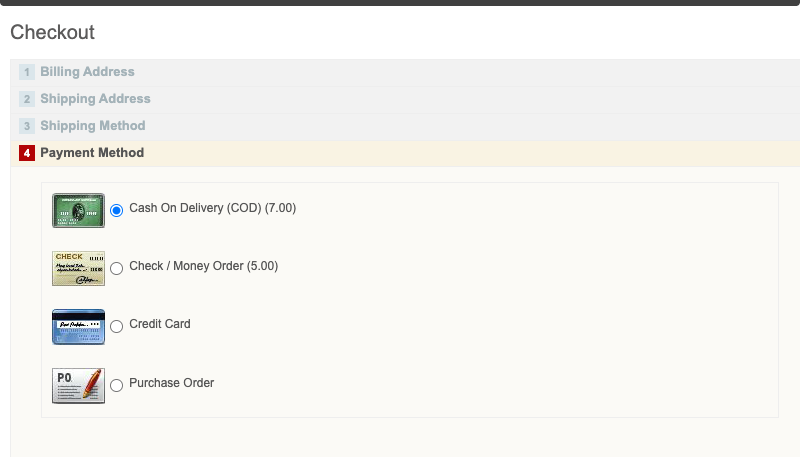
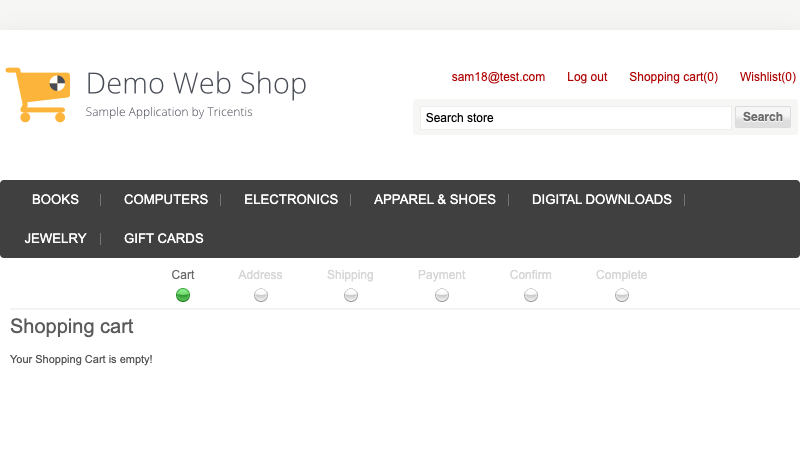
Updated JenkinsFile

diff --git a/reports/Index.html b/reports/Index.html
@@ -35,7 +35,7 @@
 <a href="#"><span class="badge badge-primary"></span></a>
 </li>
 <li class="m-r-10">
-<a href="#"><span class="badge badge-primary">Aug 18, 2026 04:15:12 PM</span></a>
+<a href="#"><span class="badge badge-primary">Oct 31, 2026 04:00:02 PM</span></a>
 </li>
 </ul>
 </div>
@@ -86,13 +86,41 @@
 </div>    <div class="test-list-wrapper scrollable">
       <ul class="test-list-item">
         <li class="test-item"  status="pass" test-id="1"
+          author="Santhosh"
+          tag=""
+          device="">
+          <div class="test-detail">
+            <p class="name">Electronics</p>
+            <p class="text-sm">
+              <span>4:00:49 PM</span> / <span>00:00:00:000</span>
+              <span class="badge pass-bg log float-right">Pass</span>
+            </p>
+          </div>
+          <div class="test-contents d-none">
+<div class="detail-head">
+<div class="p-v-10">
+<div class="info">
+<h5 class="test-status text-pass">Electronics</h5>
+<span class='badge badge-success'>10.31.2026 4:00:49 PM</span>
+<span class='badge badge-danger'>10.31.2026 4:00:49 PM</span>
+<span class='badge badge-default'>00:00:00:000</span>
+&middot; <span class='uri-anchor badge badge-default'>#test-id=1</span>
+<span title='Skip to the next failed step' class='badge badge-danger pointer float-right ne ml-1'><i class="fa fa-fast-forward"></i></span>
+<span title='Collapse all nodes' class='badge badge-default pointer float-right ct ml-1'><i class="fa fa-compress"></i></span>
+<span title='Expand all nodes' class='badge badge-default pointer float-right et'><i class="fa fa-expand"></i></span>
+</div>
+<div class="m-t-15"><span class="badge badge-pill badge-default">Santhosh</span></div>
+</div>
+</div>          </div>
+        </li>
+        <li class="test-item"  status="pass" test-id="2"
           author=""
           tag=""
           device="">
           <div class="test-detail">
             <p class="name">TC_02 - Verify Page Title After Login</p>
             <p class="text-sm">
-              <span>4:15:20 PM</span> / <span>00:00:00:011</span>
+              <span>4:00:49 PM</span> / <span>00:00:00:009</span>
               <span class="badge pass-bg log float-right">Pass</span>
             </p>
           </div>
@@ -101,10 +129,10 @@
 <div class="p-v-10">
 <div class="info">
 <h5 class="test-status text-pass">TC_02 - Verify Page Title After Login</h5>
-<span class='badge badge-success'>08.18.2026 4:15:20 PM</span>
-<span class='badge badge-danger'>08.18.2026 4:15:20 PM</span>
-<span class='badge badge-default'>00:00:00:011</span>
-&middot; <span class='uri-anchor badge badge-default'>#test-id=1</span>
+<span class='badge badge-success'>10.31.2026 4:00:49 PM</span>
+<span class='badge badge-danger'>10.31.2026 4:00:49 PM</span>
+<span class='badge badge-default'>00:00:00:009</span>
+&middot; <span class='uri-anchor badge badge-default'>#test-id=2</span>
 <span title='Skip to the next failed step' class='badge badge-danger pointer float-right ne ml-1'><i class="fa fa-fast-forward"></i></span>
 <span title='Collapse all nodes' class='badge badge-default pointer float-right ct ml-1'><i class="fa fa-compress"></i></span>
 <span title='Expand all nodes' class='badge badge-default pointer float-right et'><i class="fa fa-expand"></i></span>
@@ -116,7 +144,7 @@
   <tbody>
       <tr class="event-row">
         <td><span class="badge log pass-bg">Pass</span></td>
-        <td>4:15:20 PM</td>
+        <td>4:00:49 PM</td>
         <td>
           Page title after login: Demo Web Shop
         </td>
@@ -126,34 +154,6 @@
 </div>
           </div>
         </li>
-        <li class="test-item"  status="pass" test-id="2"
-          author="Santhosh"
-          tag=""
-          device="">
-          <div class="test-detail">
-            <p class="name">Electronics</p>
-            <p class="text-sm">
-              <span>4:15:20 PM</span> / <span>00:00:00:000</span>
-              <span class="badge pass-bg log float-right">Pass</span>
-            </p>
-          </div>
-          <div class="test-contents d-none">
-<div class="detail-head">
-<div class="p-v-10">
-<div class="info">
-<h5 class="test-status text-pass">Electronics</h5>
-<span class='badge badge-success'>08.18.2026 4:15:20 PM</span>
-<span class='badge badge-danger'>08.18.2026 4:15:20 PM</span>
-<span class='badge badge-default'>00:00:00:000</span>
-&middot; <span class='uri-anchor badge badge-default'>#test-id=2</span>
-<span title='Skip to the next failed step' class='badge badge-danger pointer float-right ne ml-1'><i class="fa fa-fast-forward"></i></span>
-<span title='Collapse all nodes' class='badge badge-default pointer float-right ct ml-1'><i class="fa fa-compress"></i></span>
-<span title='Expand all nodes' class='badge badge-default pointer float-right et'><i class="fa fa-expand"></i></span>
-</div>
-<div class="m-t-15"><span class="badge badge-pill badge-default">Santhosh</span></div>
-</div>
-</div>          </div>
-        </li>
         <li class="test-item"  status="pass" test-id="3"
           author=""
           tag=""
@@ -161,7 +161,7 @@
           <div class="test-detail">
             <p class="name">TC_01 - Verify Successful Login</p>
             <p class="text-sm">
-              <span>4:15:23 PM</span> / <span>00:00:00:019</span>
+              <span>4:00:53 PM</span> / <span>00:00:00:024</span>
               <span class="badge pass-bg log float-right">Pass</span>
             </p>
           </div>
@@ -170,9 +170,9 @@
 <div class="p-v-10">
 <div class="info">
 <h5 class="test-status text-pass">TC_01 - Verify Successful Login</h5>
-<span class='badge badge-success'>08.18.2026 4:15:23 PM</span>
-<span class='badge badge-danger'>08.18.2026 4:15:23 PM</span>
-<span class='badge badge-default'>00:00:00:019</span>
+<span class='badge badge-success'>10.31.2026 4:00:53 PM</span>
+<span class='badge badge-danger'>10.31.2026 4:00:53 PM</span>
+<span class='badge badge-default'>00:00:00:024</span>
 &middot; <span class='uri-anchor badge badge-default'>#test-id=3</span>
 <span title='Skip to the next failed step' class='badge badge-danger pointer float-right ne ml-1'><i class="fa fa-fast-forward"></i></span>
 <span title='Collapse all nodes' class='badge badge-default pointer float-right ct ml-1'><i class="fa fa-compress"></i></span>
@@ -185,7 +185,7 @@
   <tbody>
       <tr class="event-row">
         <td><span class="badge log pass-bg">Pass</span></td>
-        <td>4:15:23 PM</td>
+        <td>4:00:53 PM</td>
         <td>
           User logged in successfully — 'Log out' link found on page.
         </td>
@@ -202,7 +202,7 @@
           <div class="test-detail">
             <p class="name">TC_03 - Verify URL After Login</p>
             <p class="text-sm">
-              <span>4:15:27 PM</span> / <span>00:00:00:008</span>
+              <span>4:00:56 PM</span> / <span>00:00:00:009</span>
               <span class="badge pass-bg log float-right">Pass</span>
             </p>
           </div>
@@ -211,9 +211,9 @@
 <div class="p-v-10">
 <div class="info">
 <h5 class="test-status text-pass">TC_03 - Verify URL After Login</h5>
-<span class='badge badge-success'>08.18.2026 4:15:27 PM</span>
-<span class='badge badge-danger'>08.18.2026 4:15:27 PM</span>
-<span class='badge badge-default'>00:00:00:008</span>
+<span class='badge badge-success'>10.31.2026 4:00:56 PM</span>
+<span class='badge badge-danger'>10.31.2026 4:00:56 PM</span>
+<span class='badge badge-default'>00:00:00:009</span>
 &middot; <span class='uri-anchor badge badge-default'>#test-id=4</span>
 <span title='Skip to the next failed step' class='badge badge-danger pointer float-right ne ml-1'><i class="fa fa-fast-forward"></i></span>
 <span title='Collapse all nodes' class='badge badge-default pointer float-right ct ml-1'><i class="fa fa-compress"></i></span>
@@ -226,7 +226,7 @@
   <tbody>
       <tr class="event-row">
         <td><span class="badge log pass-bg">Pass</span></td>
-        <td>4:15:27 PM</td>
+        <td>4:00:56 PM</td>
         <td>
           Current URL after login: https://demowebshop.tricentis.com/
         </td>
@@ -243,7 +243,7 @@
           <div class="test-detail">
             <p class="name">Buy Apparel</p>
             <p class="text-sm">
-              <span>4:15:35 PM</span> / <span>00:00:00:000</span>
+              <span>4:01:04 PM</span> / <span>00:00:00:000</span>
               <span class="badge pass-bg log float-right">Pass</span>
             </p>
           </div>
@@ -252,8 +252,8 @@
 <div class="p-v-10">
 <div class="info">
 <h5 class="test-status text-pass">Buy Apparel</h5>
-<span class='badge badge-success'>08.18.2026 4:15:35 PM</span>
-<span class='badge badge-danger'>08.18.2026 4:15:35 PM</span>
+<span class='badge badge-success'>10.31.2026 4:01:04 PM</span>
+<span class='badge badge-danger'>10.31.2026 4:01:04 PM</span>
 <span class='badge badge-default'>00:00:00:000</span>
 &middot; <span class='uri-anchor badge badge-default'>#test-id=5</span>
 <span title='Skip to the next failed step' class='badge badge-danger pointer float-right ne ml-1'><i class="fa fa-fast-forward"></i></span>
@@ -305,14 +305,14 @@
 <tbody>
 <tr class="tag-test-status" status="pass">
 <td><span class="badge log pass-bg">Pass</span></td>
-<td>16:15:20 PM</td>
+<td>16:00:49 PM</td>
 <td>
-<a href="#" class="linked" test-id='2' id='2'>Electronics</a>
+<a href="#" class="linked" test-id='1' id='1'>Electronics</a>
 </td>
 </tr>
 <tr class="tag-test-status" status="pass">
 <td><span class="badge log pass-bg">Pass</span></td>
-<td>16:15:35 PM</td>
+<td>16:01:04 PM</td>
 <td>
 <a href="#" class="linked" test-id='5' id='5'>Buy Apparel</a>
 </td>
@@ -334,13 +334,13 @@
 <div class="col-md-3">
 <div class="card"><div class="card-body">
 <p class="m-b-0">Started</p>
-<h3>Aug 18, 2026 04:15:12 PM</h3>
+<h3>Oct 31, 2026 04:00:02 PM</h3>
 </div></div>
 </div>
 <div class="col-md-3">
 <div class="card"><div class="card-body">
 <p class="m-b-0">Ended</p>
-<h3>Aug 18, 2026 04:16:02 PM</h3>
+<h3>Oct 31, 2026 04:01:41 PM</h3>
 </div></div>
 </div>
 <div class="col-md-3">
@@ -410,7 +410,7 @@
 </div></div>
 <script>
 var timeline = {
-"TC_02 - Verify Page Title After Login":0.011,"Electronics":0,"TC_01 - Verify Successful Login":0.019,"TC_03 - Verify URL After Login":0.008,"Buy Apparel":0
+"Electronics":0,"TC_02 - Verify Page Title After Login":0.009,"TC_01 - Verify Successful Login":0.024,"TC_03 - Verify URL After Login":0.009,"Buy Apparel":0
 };
 </script>
 <div class="row">

diff --git a/src/main/java/base/Base_Class.java b/src/main/java/base/Base_Class.java
@@ -16,7 +16,6 @@ import org.openqa.selenium.support.ui.ExpectedConditions;
 import org.openqa.selenium.support.ui.WebDriverWait;
 import org.testng.annotations.*;
 import pomrepo.LoginPage;
-import utilties.JS_Utility;
 import utilties.ReadDataFromExcel;
 import utilties.ReadDataFromProperty;
 
@@ -35,10 +34,14 @@ public class Base_Class {
 
     }
 
-    public void clickElement(By locator) {
-        WebElement el = new WebDriverWait(getdriver() ,Duration.ofSeconds(15))
-                .until(ExpectedConditions.presenceOfElementLocated(locator));
-        JS_Utility.jsClick(getdriver(), el);
+    public void clickElement(WebElement element) {
+        try {
+            new WebDriverWait(getdriver(), Duration.ofSeconds(Framework_Constants.EXPLICIT_WAIT))
+                    .until(ExpectedConditions.elementToBeClickable(element));
+            element.click();
+        } catch (Exception e) {
+            utilties.JS_Utility.jsClick(getdriver(), element);
+        }
     }
 
     public void sendKeysToElement(WebElement element, String text) {
